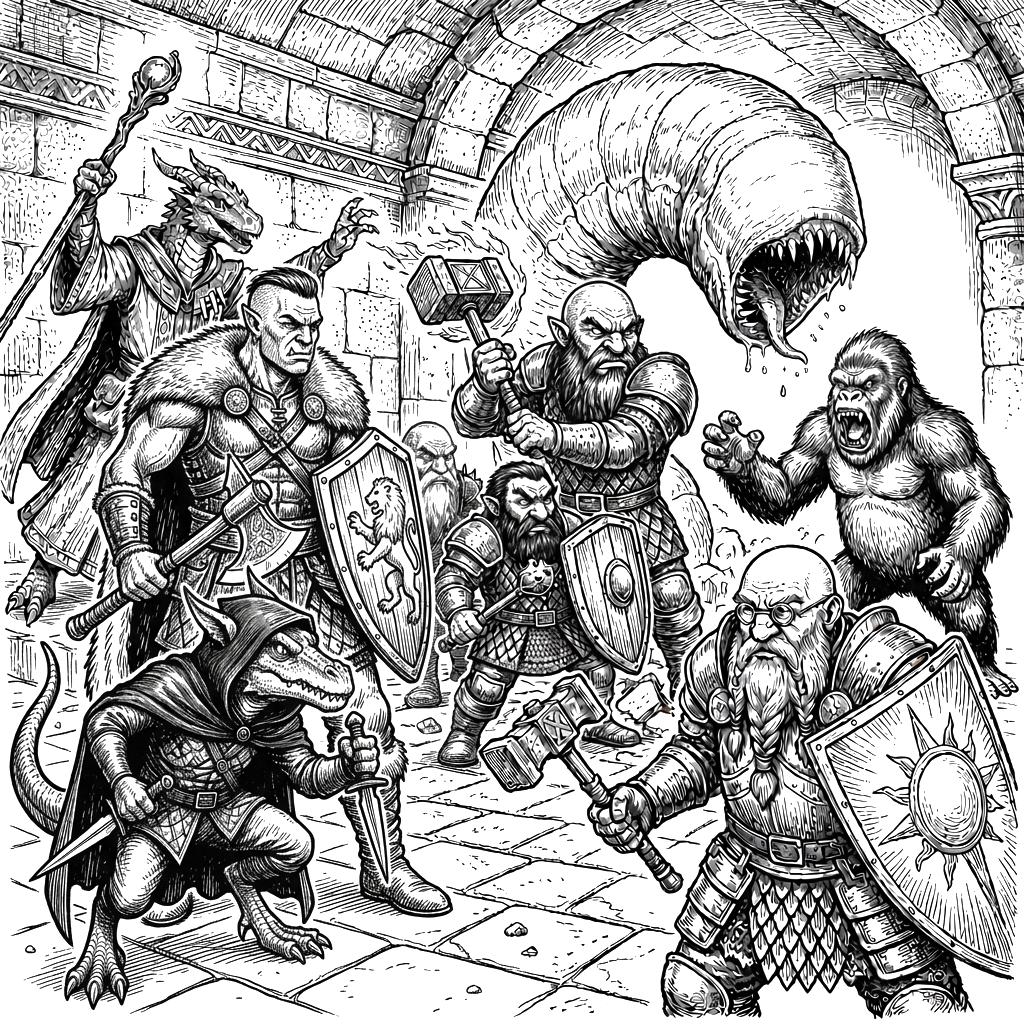
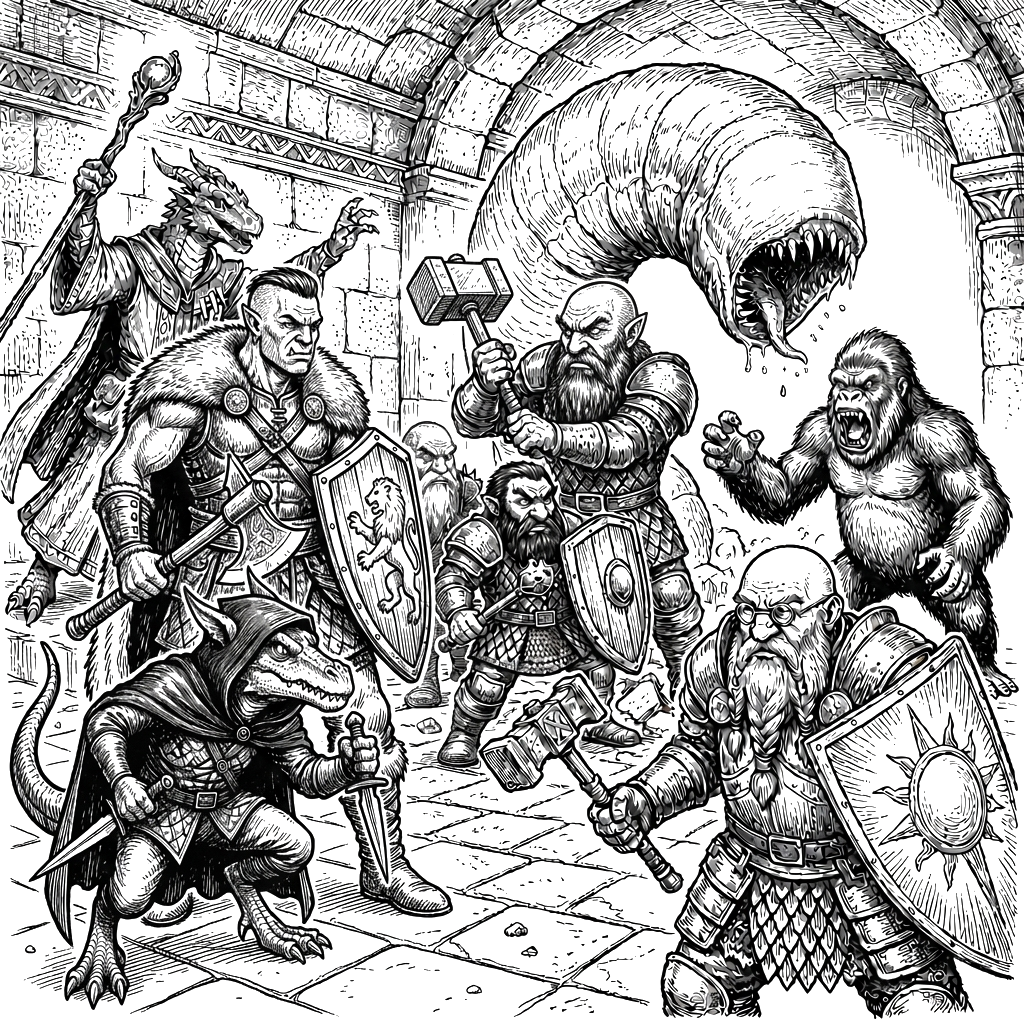
fix: separate warhammer flame & set Thorn-Duergar face-off gaze in Ch7 art [skip netlify]

diff --git a/src/lib/build-info.ts b/src/lib/build-info.ts
@@ -1,3 +1,3 @@
 // Generated by scripts/write-build-info.mjs — do not edit
-export const SITE_EDITION = "89cbf94";
-export const SITE_BUILT_AT = "2026-07-27T12:03:47.482Z";
+export const SITE_EDITION = "d309c83";
+export const SITE_BUILT_AT = "2026-07-27T12:05:12.858Z";
